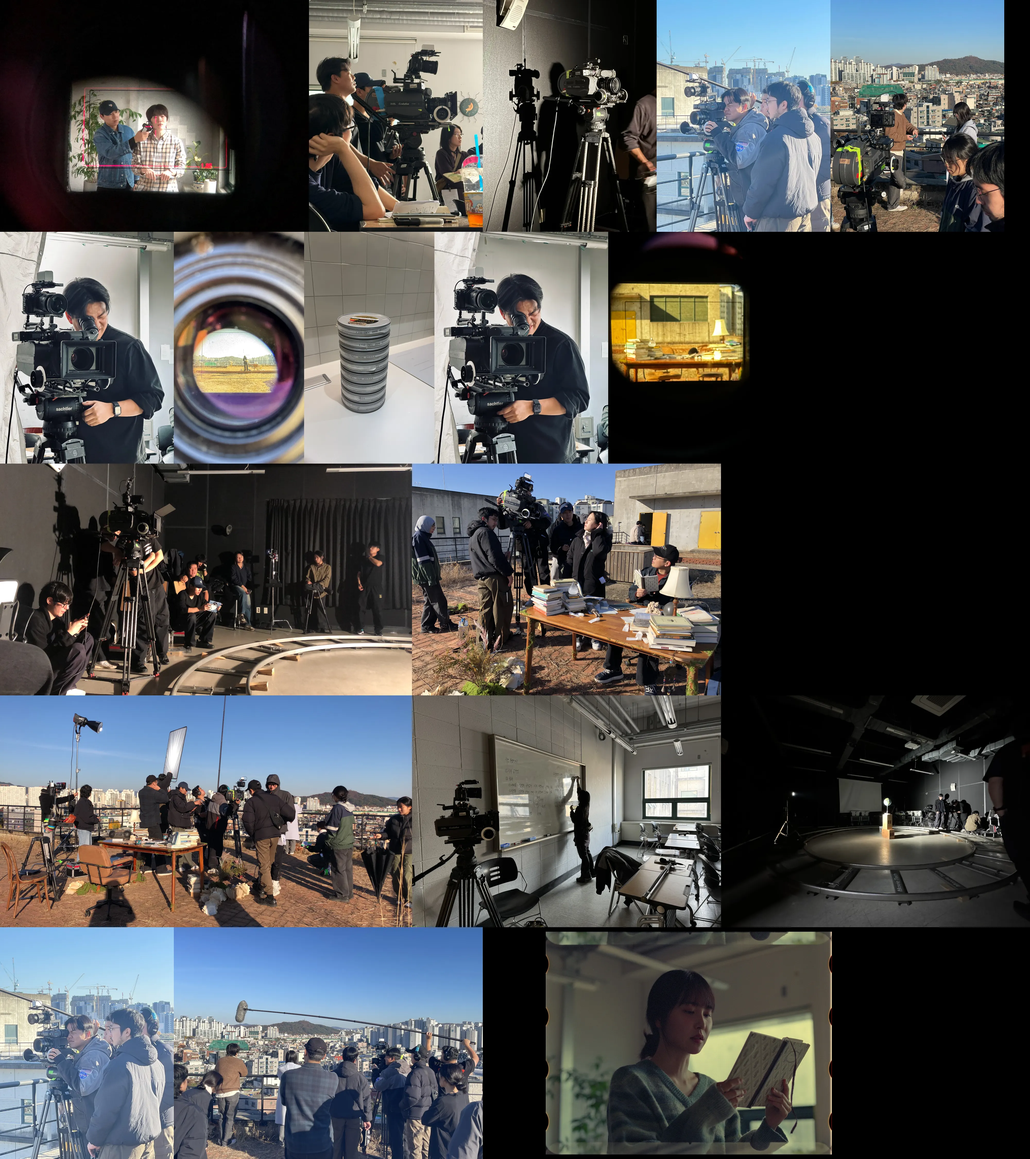
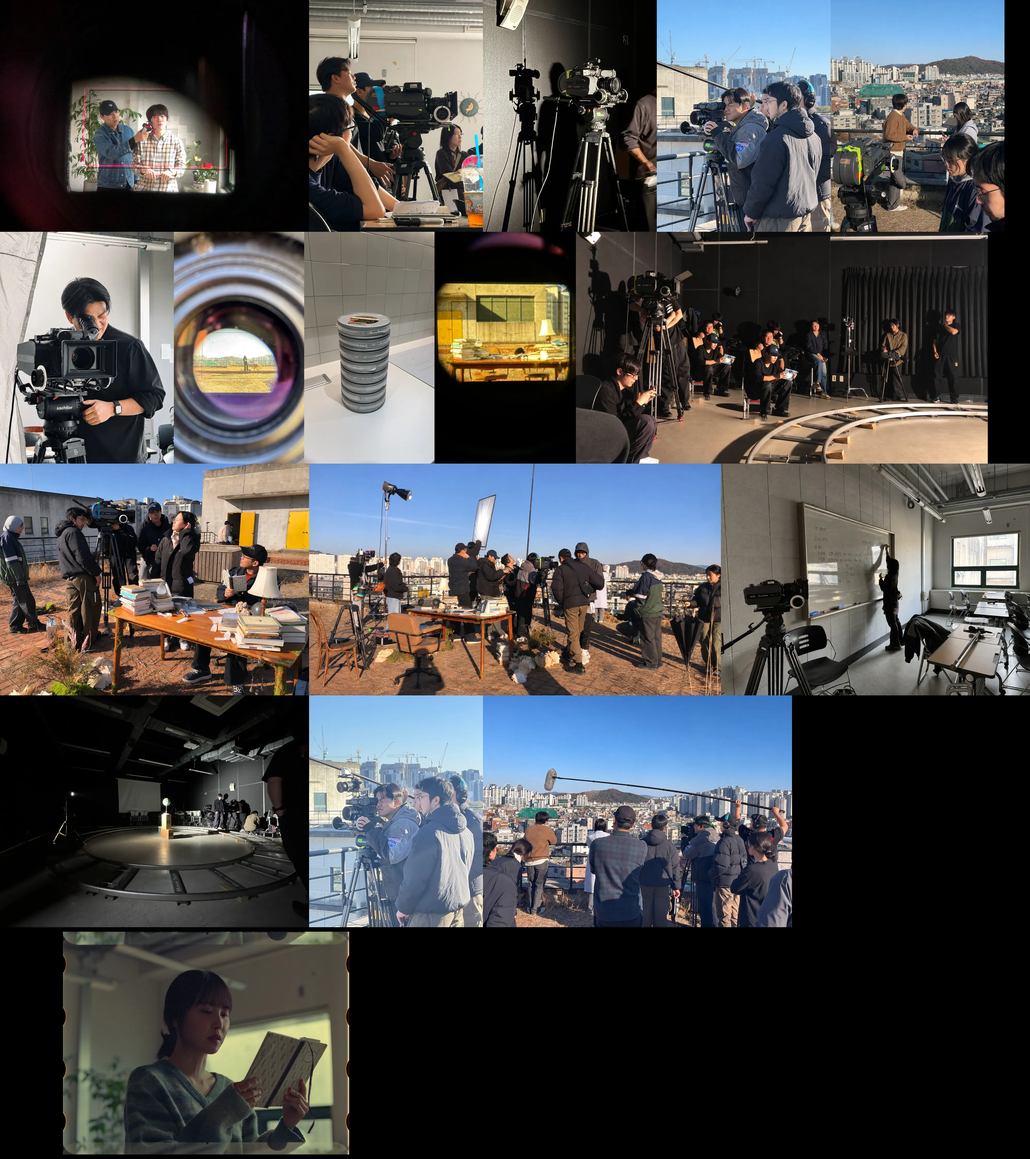
시적허용 BTS: 미러리스 지운 사진 반영
Claude-Session: https://claude.ai/code/session_01YYRb2KB3eF6Q3RKez6YmkW

diff --git a/index.html b/index.html
@@ -2282,6 +2282,9 @@ Object.assign(MEDIA.f2,{"s":[1.85,1.85,1.85,1.85],"x":[[0,2162,2000,1077],[0,323
 Object.assign(MEDIA.f4,{"s":[1.85],"x":[[0,0,2000,629],[0,629,2000,1081],[0,1710,2000,1081],[0,2791,2000,1081],[0,3872,2000,1081],[0,4953,2000,1081],[0,6034,2000,1081],[0,7115,2000,1081],[0,8196,2000,1081],[0,9277,2000,1081],[0,10358,2000,1081],[0,11439,2000,1081],[0,12520,2000,1081]],"xs":[2000,13601]});GOOD.f4=[0];
 /* 두 번의 장례 스틸: 보정본 재정리본 */
 Object.assign(MEDIA.f5,{"s":[2.387],"x":[[0,0,1800,754],[0,754,1800,754],[0,1508,1800,754],[0,2262,1800,754],[0,3016,1800,754],[0,3770,1800,754],[0,4524,1800,754],[0,5278,1800,754],[0,6032,1800,698],[0,6730,1800,754],[0,7484,1800,754],[0,8238,1800,754],[0,8992,1800,754],[0,9746,1800,754],[0,10500,1800,754],[0,11254,1800,754],[0,12008,1800,754],[0,12762,1800,754],[0,13516,1800,608],[0,14124,1800,688],[1800,0,1800,754],[1800,754,1800,753],[1800,1507,1800,754],[1800,2261,1800,754],[1800,3015,1800,754],[1800,3769,1800,753],[1800,4522,1800,754],[1800,5276,1800,754],[1800,6030,1800,754],[1800,6784,1800,754],[1800,7538,1800,754],[1800,8292,1800,754],[1800,9046,1800,753],[1800,9799,1800,754],[1800,10553,1800,753],[1800,11306,1800,753],[1800,12059,1800,754],[1800,12813,1800,754],[1800,13567,1800,754],[1800,14321,1800,754],[3600,0,1800,754],[3600,754,1800,754],[3600,1508,1800,754],[3600,2262,1800,754],[3600,3016,1800,754],[3600,3770,1800,754]],"xs":[5400,15075]});GOOD.f5=[0];
+/* 시적허용 BTS: 미러리스 지운 버전 반영 */
+Object.assign(MEDIA.f4,{"b": [[0, 0, 1200, 900], [1200, 0, 675, 900], [1875, 0, 675, 900], [2550, 0, 675, 900], [3225, 0, 675, 900], [0, 900, 675, 900], [675, 900, 506, 900], [1181, 900, 506, 900], [1687, 900, 549, 900], [2236, 900, 1599, 900], [0, 1800, 1200, 900], [1200, 1800, 1599, 900], [2799, 1800, 1200, 900], [0, 2700, 1200, 900], [1200, 2700, 675, 900], [1875, 2700, 1200, 900], [0, 3600, 1600, 900]], "bs": [3999, 4500], "bshow": 12});
+
 /* 영화제·수상·제작지원 (원본 사이트 + 기존 기록 통합): [구분, 연도, 국문, 영문] */
 const FEST={
 0:[["Competition","2026","제30회 부천국제판타스틱영화제 · 부천 초이스 코리안 장편 공식 경쟁","30th Bucheon International Fantastic Film Festival (BIFAN) — Bucheon Choice: Korean Features"],
